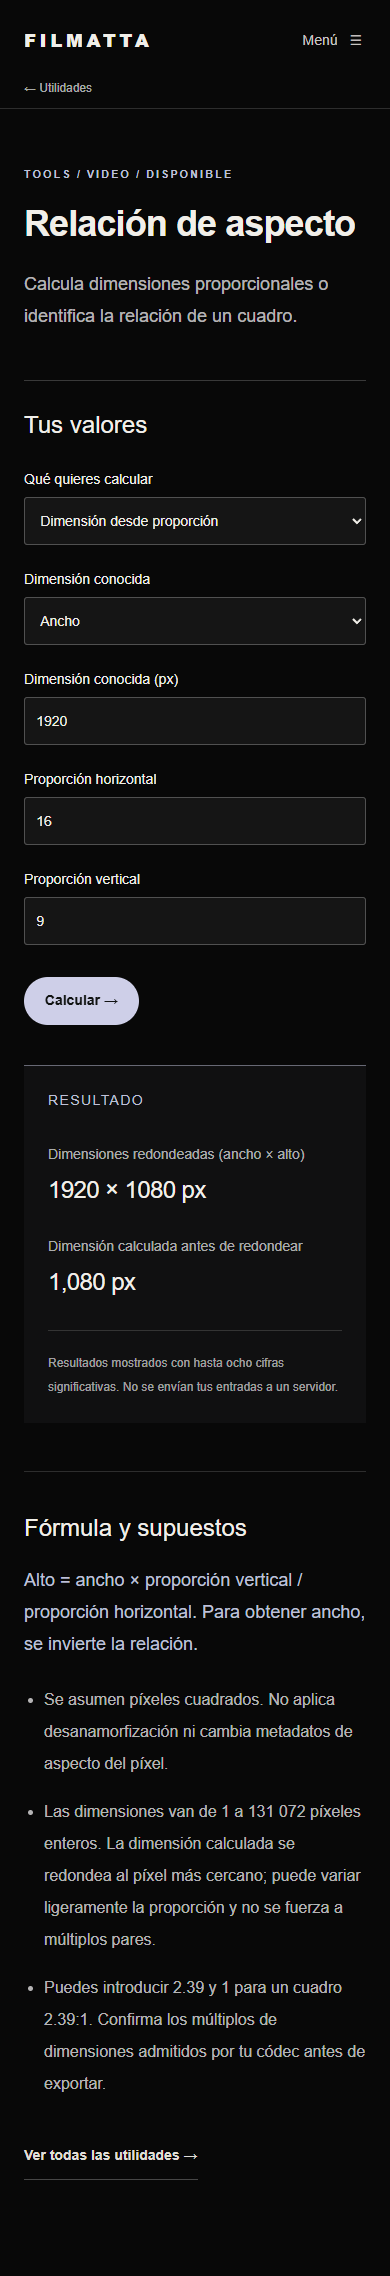
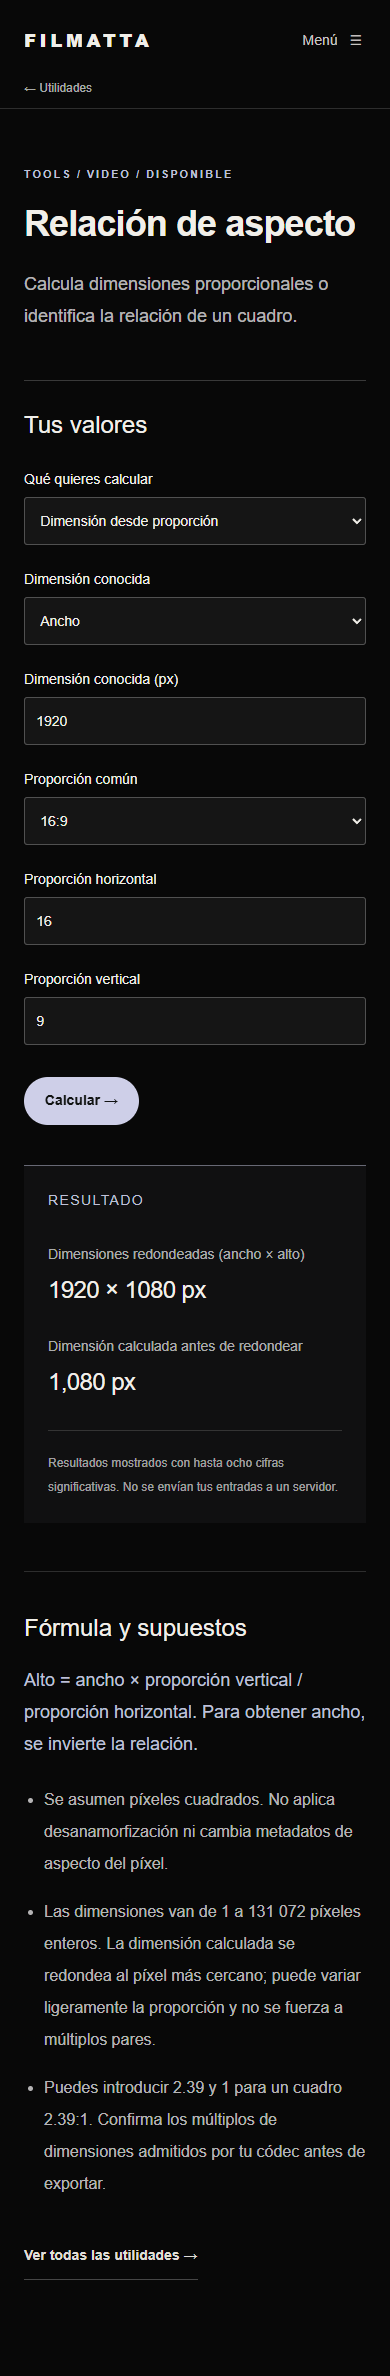
docs(review): close catalog foundations with current Test evidence

diff --git a/docs/architecture/navigation-landings-catalog-foundations.md b/docs/architecture/navigation-landings-catalog-foundations.md
@@ -1,115 +1,90 @@
-# Navigation, landings and catalog foundations
+# Navigation + Catalog Foundations — arquitectura de cierre
 
-Base: c542b0a7c6e8ecd5ca578c1271819ebed46cfd49 (main = origin/main after fetch).
-Branch: feature/navigation-landings-catalog-foundations.
-Worktree: G:\PROYECTOS\filmatta-navigation-landings.
+Estado de cierre: 17 de septiembre de 2026. Rama `feature/navigation-landings-catalog-foundations`, worktree `G:\PROYECTOS\filmatta-navigation-landings`.
 
-## Scope override
-The execution brief explicitly advances public catalogs, derived Talent, service directory, Jobs and Tools foundations beyond the future scope in AGENTS.md. Depth and security take precedence over coverage. Jobs reuses opportunities. Tools uses a typed code registry. Public routes remain public according to existing policies. No Production deployment, remote migrations, fixtures, payments, Billing changes or integration of live-smoke-discount.
+## Base y alcance auditados
 
-## Baseline audit
-- /: versioned editorial Home and FILMATTA wordmark. Uncommitted Home work in the original billing checkout was not imported.
-- /perfiles: presentation; /perfiles/[slug] and /mi-perfil use privacy-preserving RPCs. Public directory RPC absent.
-- /locaciones and detail: published inventory. /mis-locaciones contains owner CMS.
-- /oportunidades and detail: published opportunities linked to published projects; publishing UI absent.
-- /cursos: existing Learn access, progress and playback, preserved.
-- /cuenta: #mis-cursos and #configuracion available.
-- Marketplace, Jobs, Talent and Tools routes absent at baseline.
-- proxy.ts refreshes sessions without privatizing public catalogs.
-- No Production environment or secrets copied into this worktree.
+La base histórica del bloque es `c542b0a7c6e8ecd5ca578c1271819ebed46cfd49`. Al iniciar este cierre, la rama estaba limpia en `ba4d87e9f442e821e1bcfc36f9918a60ae881af3`; main local y la referencia remota consultada ya apuntaban al mismo commit. Este cierre no hizo merge, push ni deploy. Los documentos de QA del 16 de septiembre son evidencia histórica, no un inventario actual de Production.
 
-## A — Navigation
-Shared public/authenticated navigation, server-validated role, unchanged subscription badge. Slash-separated desktop menu from 1440px; compact modal below. Disclosure buttons support click, Tab, Escape and outside click; mobile native dialog provides focus containment and restoration. Account and publishing links reuse authorized routes. Features enable only once their destination exists. UI role checks do not replace server authorization.
+La autorización de producto adelanta los catálogos y las foundations de Services, Jobs y Tools respecto al backlog original de AGENTS.md. A–F ya estaban implementados: se auditaron y conservaron. Este cierre completa controles de unidades/proporciones en Utilities, recorridos conceptuales de las dos herramientas futuras y documentación. No modifica Billing, Stripe, Mux, grants, entitlements, Auth/SMTP ni las cinco landings iniciales.
 
-## Sources consulted
-- [Home roadmap](https://docs.google.com/document/d/1cHL3YTvP5DvgSgEfzOFK-wNRV5gatXwb7nglXnq1180/edit)
-- [Writer vision](https://docs.google.com/document/d/1xqC75YyhjfjZ_dSthU1nytKg-qpIcYaHmM4awOlU8jA/edit)
-- [Production strategy](https://docs.google.com/document/d/16ljbRdGXK4Na7V7OvGPaNGcYwVjx3z8klfqOK5NrqXg/edit)
-- themesh.art timed out; no visual inspection claimed.
+## Real / operativo y rutas
 
-## B — Editorial landings for existing verticals
-Implemented /descubre/perfiles, /descubre/talento, /descubre/locaciones, /descubre/oportunidades and /descubre/learn. Marketplace/Jobs/Tools landings remain with their later product blocks, so no nonfunctional catalog CTA is introduced. Shared structure with distinct portfolio, portrait, panorama, brief and learning compositions. Pale blue Profiles/Talent; muted olive Locations, steel Opportunities and amber Learn. Home composition preserved, manifesto added, Profiles accent corrected.
+| Módulo | Presentación | Producto y reglas |
+| --- | --- | --- |
+| Perfiles | `/descubre/perfiles` | `/perfiles`, `/perfiles/[slug]`, `/mi-perfil`; RPCs de `professional_profiles`, proyección pública sin identidad privada, disciplina/ciudad/disponibilidad, orden y páginas |
+| Talento | `/descubre/talento` | `/talento`, misma tabla, identidad y permisos; Actuación/Modelaje |
+| Locaciones | `/descubre/locaciones` | `/locaciones`, detalle y CMS `/mis-locaciones`; conserva fotos, ownership y estados |
+| Oportunidades | `/descubre/oportunidades` | `/oportunidades`, detalle y `/mis-oportunidades`; crear/editar/publicar/cerrar/archivar; proyecto mínimo interno |
+| Learn | `/descubre/learn` | `/cursos`, detalle, lecciones y cuenta existentes; conserva progreso y acceso |
+| Marketplace | `/descubre/marketplace` | `/marketplace`, `/marketplace/[slug]`, `/mis-servicios`, `/mis-servicios/nuevo`, `/mis-servicios/[id]/editar`, `/mis-servicios/consultas` |
+| Jobs | `/descubre/jobs` | `/jobs`; detalle `/oportunidades/[slug]`; crear `/mis-oportunidades/nueva?type=job`; CMS compartido |
+| Tools | `/tools` | Registry tipado `lib/tools/registry.ts`, sin tabla Supabase; cuatro calculadoras públicas |
 
-Final copy lives in content/landings.ts. Descriptions explicitly acknowledge that private contact and applications are not functional in the baseline. Three local optimized WebP images, 528 KB combined; source/author/license/dimensions/focal point documented in content/image-sources.json. No stock person presented as a customer or registered professional.
+Cada catálogo conserva sus reglas públicas por URL directa. Vacío, fallo de transporte y esquema ausente tienen estados distintos. Filtros y paginación se ejecutan en servidor; los formularios validan del lado servidor y SQL vuelve a comprobar ownership y publicación.
 
-Validation: 8 navigation/content unit tests; 12 Playwright tests covering server sessions (local transport fixtures), admin visibility, anonymous route protection, keyboard interaction and all seven requested widths. Corrected mobile reverse-Tab focus escape. Inspected full-page desktop/mobile captures for all five landings in docs/review. UI fixtures do not establish database authorization correctness.
+## Marketplace y contacto
 
-## C — Catálogos existentes y publicación de oportunidades
+`service_listings` almacena propietario, slug estable, categoría, descripción, ciudad/modalidad, enlaces HTTPS, precio/moneda opcional, estado y timestamps. No duplica nombre, avatar ni disciplinas del perfil profesional. Catálogo por categoría/ciudad/modalidad, orden estable, paginación, detalle público y CMS de propietario con borrador/publicar/despublicar/archivar.
 
-Entrega de este checkpoint: Perfiles publicados, Talento derivado, Locaciones, Oportunidades y Learn. Filtros GET compartibles, consultas limitadas a 24 elementos más una fila de anticipación, orden con desempate estable y paginación anterior/siguiente. No se generan cifras de inventario. Se distinguen ausencia de migración, error de carga y cero resultados. Hay estados de carga y error por ruta; los límites de error usan `retry`, conforme a la documentación de Next.js instalada.
+`catalog_inquiries` es la bandeja protegida compartida con Jobs. Sólo participantes/admin leen sus consultas. El destinatario se deriva en SQL, con FK compuesta al propietario; el emisor necesita perfil profesional publicado. Una consulta por ficha y máximo diez en 24 horas entre ambos módulos. El receptor acepta, declina o archiva; el emisor ve el estado. No se publican teléfono/correo, ni hay chat, email automático o contratación. service_role sólo prepara/limpia fixtures Test y nunca resuelve operaciones de producto.
 
-Perfiles consulta una proyección pública explícita mediante RPC. No se amplían permisos SELECT de la tabla profesional, ni se devuelven user_id, correo, teléfono o nombre privado. Talento filtra Actuación/Modelaje en la misma tabla; crear o editar sigue pasando por /mi-perfil y sus RPCs existentes. Modelaje se añade al selector de disciplinas. No se crea una segunda identidad.
+## Jobs sobre Opportunities
 
-Locaciones conserva su CMS, fotos, ciclo de publicación y ownership. Se añaden búsqueda por título, ciudad y entorno. Oportunidades filtra categoría, ciudad, título y modalidad; el proyecto publicado se filtra antes de paginar mediante la relación existente. Learn filtra título, categoría y nivel, con orden estable; no cambia acceso, progreso, grants ni playback.
+Sólo se añaden `opportunity_type` y `deliverables`. Se reutilizan `compensation_type`, `compensation_min/max/currency`, `discipline`, `work_mode`, `city`, `application_deadline`, `starts_on/ends_on`, propietario, proyecto y estados existentes. No existe tabla ni motor Jobs.
 
-`/mis-oportunidades` permite listar y editar publicaciones propias. `/mis-oportunidades/nueva` crea atómicamente un proyecto mínimo y una oportunidad. Por defecto queda en borrador; publicar requiere brief y ciudad cuando no es remoto. La UI explica que también se publica el título del proyecto. Editar conserva el slug compartido, y permite cerrar/archivar. El RPC deriva auth.uid(), comprueba propiedad y mantiene RLS mediante SECURITY INVOKER. La transacción evita proyectos huérfanos. La Server Action valida campos, enum, importes, moneda y fechas. Un error conserva los valores del formulario.
+Publicar exige trabajo pagado, importe positivo, moneda, disciplina, brief, entregables y fecha límite. `/jobs` consulta el subconjunto `opportunity_type='job'`. Filtros: disciplina, ciudad/modalidad, moneda e importe mínimo ofrecido, fecha límite. No compara monedas distintas. Contacto y moderación siguen los permisos del sistema compartido.
 
-Los importes de Oportunidades muestran código de moneda y hasta dos decimales. Se corrigió contraste de texto secundario en los tres listados existentes, el fondo en pantallas altas y la legibilidad de controles de fecha. No cambian tokens de planes.
+## Tools y Utilities disponibles
 
-### Matriz de rutas y estado
+Registro versionado con slug, nombre, categoría, descripción, estado, acceso y ruta. Estados `available`, `beta`, `in-development`; hoy cuatro disponibles y dos en desarrollo.
 
-| Vertical | Destino anónimo | Destino autenticado / catálogo público | Crear / editar | Estado |
-| --- | --- | --- | --- | --- |
-| Perfiles | /descubre/perfiles | /perfiles | /mi-perfil | Requiere RPC nuevo para listado |
-| Talento | /descubre/talento | /talento | /mi-perfil | Vista derivada; requiere el mismo RPC |
-| Locaciones | /descubre/locaciones | /locaciones | /mis-locaciones | Catálogo y CMS existentes integrados |
-| Oportunidades | /descubre/oportunidades | /oportunidades | /mis-oportunidades | Listado existente; escritura requiere RPC nuevo |
-| Learn | /descubre/learn | /cursos | CMS existente | Filtros/listado integrados |
+- `/tools/utilidades/obturacion`: ángulo ↔ exposición por fps de grabación; exposición máxima de un fotograma.
+- `/tools/utilidades/almacenamiento`: bitrate en kbps/Mbps/Gbps, minutos y margen; salida adaptativa MB/GB/TB y equivalencia GiB. Base decimal explícita, bits distintos de bytes.
+- `/tools/utilidades/relacion-aspecto`: ancho desde alto o alto desde ancho, proporción desde dimensiones; presets 16:9, 9:16, 4:3, 1:1 y 2.39:1, además de valores personalizados.
+- `/tools/utilidades/focal-equivalente`: crop conocido o diagonal del área activa frente a full frame 36×24 mm. Equivalencia de encuadre; no cambia focal física ni perspectiva desde la misma posición, ni calcula DoF.
 
-Se conservan /perfiles/[slug], /locaciones/[slug], /oportunidades/[slug] y /cursos/[slug]. Una URL pública directa no redirige a login por ser anónima. Los filtros Casting/Crew/Colaboraciones enlazan al catálogo público; el acceso general anónimo abre la landing. La sesión sólo determina destinos y CTAs, nunca sustituye RLS.
+Funciones puras con rangos, unidades, supuestos y rechazo de NaN/Infinity; resultados obsoletos se eliminan al cambiar entradas. No se envían entradas al servidor.
 
-Mi cuenta incluye resumen, perfil, aprendizaje, locaciones, publicaciones, suscripción, ajustes y cierre de sesión. Admin sólo aparece para el rol validado exacto. Publicar incluye perfil, locación y oportunidad. A 1440 px se mantiene la navegación con separadores; Publicar aparece a partir de 1600 px y está disponible en el drawer compacto. Jobs/Marketplace/Tools no se añaden aún al menú porque sus destinos no están entregados.
+## En desarrollo
 
-### Migraciones locales preparadas
+`/tools/writer`: landing «Escribe tu historia. Mira más allá de las páginas.»; muestra Guion → Escenas → Personajes → Locaciones → Necesidades de producción, explícitamente conceptual. Orden, claridad, autoría, continuidad y asistencia creativa; sin editor simulado.
 
-1. `supabase/migrations/20260916010000_public_profile_catalog.sql`: proyección pública, filtros y dos índices parciales.
-2. `supabase/migrations/20260916020000_opportunity_owner_publishing.sql`: creación/edición atómica por propietario con RLS existente.
+`/tools/production-assistant`: landing «De la idea a una producción organizada.»; Idea → Guion → Desglose → Necesidades → Talento / Locaciones / Servicios → Producción. Sin scheduling, presupuestos inteligentes, call sheets ni automatización ofrecidos como disponibles.
 
-Ambas se ejecutaron en PostgreSQL desechable mediante PGlite, junto con las migraciones reales previas de Perfiles y Locations/Opportunities. El harness crea únicamente los prerrequisitos locales de auth y roles. No se aplicaron a ninguna base remota. No hay tabla Jobs ni tabla Tools. No se modifica configuración de Supabase Production.
+## Navegación final
 
-### Límites funcionales explícitos
+Perfiles ▾ / Oportunidades ▾ / Locaciones / Marketplace / Learn / Tools ▾ / Planes. Separadores decorativos aria-hidden. Perfiles agrupa Profesionales/Talento; Oportunidades agrupa Todas/Jobs/Casting/Crew/Colaboraciones; Tools incluye hub, Writer, Production Assistant y utilidades. Anónimo llega a landings; autenticado a catálogos. Los filtros específicos de oportunidades son públicos.
 
-El baseline no tiene contacto privado ni postulaciones operativas para estos catálogos. Este checkpoint no inventa un botón de contacto ni revela datos personales para suplirlo. Las landings y el formulario lo indican. Oportunidades permite publicar y consultar convocatorias; no constituye todavía un flujo completo de contratación o postulación. El contacto protegido será una dependencia del siguiente bloque de Servicios y de Jobs, con ownership de emisor/receptor y pruebas de acceso cruzado.
+Mi cuenta: resumen, perfil, aprendizaje, locaciones, publicaciones, servicios, consultas, suscripción y ajustes; cerrar sesión y Admin según rol validado. Publicar enlaza a formularios existentes de perfil/locación/oportunidad/job/servicio. Desktop desde 1440 px; drawer jerárquico por debajo. Click/teclado/Escape/foco y cierre al navegar verificados. Ningún middleware nuevo privatiza catálogos.
 
-### Validación acumulada
+## Migraciones y estado remoto
 
-- Billing: 54/54 pruebas existentes.
-- Navegación y contenido: 8/8.
-- Catálogos, validación y Server Actions: 11/11.
-- PostgreSQL/RLS: 6/6 con migraciones reales. Anónimo, propietario, usuario ajeno y admin; exclusión de borradores, proyección pública, filtros/paginación, publicación y rollback atómico.
-- Navegador: 18/18 en Chrome, usando exclusivamente transporte Supabase simulado local. Destinos por sesión, teclado/Escape/foco, siete anchos, acceso directo, cero resultados, esquema ausente, fallo, publicados, borradores, creación y conservación de valores tras error.
-- TypeScript: correcto. Lint focal del código nuevo: correcto. Lint completo: cero errores y ocho advertencias existentes `no-img-element`.
-- Build: correcto con variables locales ficticias y Billing deshabilitado. `git diff --check`: correcto.
+Supabase de validación exclusivo: `ezlycwkuzkwcnhrhiruv`. Las cuatro migraciones ya estaban registradas; se verificaron y NO se reaplicaron durante este cierre:
 
-Las pruebas de navegador no validan por sí solas RLS: esa comprobación independiente se realiza con PostgreSQL. Aún falta la integración en un Supabase Preview real (PostgREST, Auth y Storage). No se afirma haberla probado ni se usa Production como sustituto.
+1. `20260916010000_public_profile_catalog.sql`: RPC público e índices; requiere Professional Profiles.
+2. `20260916020000_opportunity_owner_publishing.sql`: RPC propietario; requiere foundations Projects/Opportunities.
+3. `20260916030000_services_directory.sql`: Services e inbox; requiere Auth, Profiles, `private.is_admin()` y triggers foundation.
+4. `20260916040000_jobs_specialization.sql`: requiere Opportunities y migraciones 2 y 3.
 
-### Copys e imágenes
+Auth/PostgREST/RLS/RPCs reales aprobados con anon, owner, no-owner y admin; fixtures eliminados. Evidencia actual: [closure-test-evidence.json](../review/closure-test-evidence.json). Evidencia de aplicación histórica y grafo detallado: [checkpoints D–F](../review/checkpoints-d-f.md) y [Preview previo](../review/remote-preview.md).
 
-El texto final completo está en `content/landings.ts`; el bloque explicativo contextual adicional está en `app/descubre/[vertical]/page.tsx`. Los cinco H1 conservan el brief:
+**Production `ihryubbegljbwmuyazbn` no fue consultada ni modificada en este cierre. No se puede certificar que las cuatro migraciones sigan pendientes allí basándose en informes históricos, especialmente porque main ya contiene el bloque.** No se crearon migraciones nuevas en este cierre. En Test no quedan pendientes. Antes de un rollout autorizado, verificar historial Production y aplicar sólo las ausentes, en el orden anterior; nunca ejecutar reset ni duplicar registros de historial.
 
-- Perfiles: «Tu trabajo merece una mejor presentación.»
-- Talento: «Presencia frente a cámara. Un perfil que la muestre.»
-- Locaciones: «El siguiente escenario de tu producción.»
-- Oportunidades: «Tu próximo proyecto empieza con una oportunidad.»
-- Learn: «Aprende el oficio. Lleva tus ideas al set.»
+## Validación y revisión visual
 
-Home conserva «El ecosistema de la industria audiovisual.» y añade «Orden para crear. Claridad para decidir. Herramientas para producir.» como banda editorial. Business permanece informativo/próximamente.
+[Cierre reproducible, resultados y capturas](../review/closure.md). Pruebas de fórmulas/catálogos/permisos, Billing, lint, TypeScript, build optimizado local y navegador. El build usa sólo la configuración pública Test, sin Billing habilitado. Chrome comprueba 360/390/768/1024/1280/1440/1920 px. Las capturas de fichas corresponden a fixtures temporales identificados, no inventario real.
 
-Fuentes, autores, licencia consultada, fecha, dimensiones, focal point y uso por landing: `content/image-sources.json`. Las fotos son ilustración editorial Pexels, no inventario, miembros ni testimonios. Las capturas de catálogos contienen fixtures identificados como prueba local; no existen en la aplicación ni en bases remotas.
+Copy de verticales: `content/landings.ts`; herramientas futuras: `components/tools/ProductVision.tsx`. Fuentes de fotos, autor, licencia, dimensiones y crops: `content/image-sources.json`. No se añadieron imágenes en este cierre ni se inventaron usuarios, vendors o testimonios.
 
-## Siguiente bloque exacto: D — Marketplace / Services
+## Pasos posteriores de despliegue (no ejecutados)
 
-Esta entrega se cierra en A, B para las cinco verticales existentes, y C. Se priorizó completar y verificar estos recorridos. El alcance global del brief continúa pendiente; no se marca Marketplace/Jobs/Tools como disponible.
+1. Revisar los commits de cierre frente a main actual. No reincorporar D–F como si faltaran: ya estaban en `ba4d87e`.
+2. Preparar un nuevo Preview del commit aprobado, con URL/clave pública exclusivamente Test y Billing deshabilitado; conservar las reglas de protección Vercel. El Preview histórico no contiene los ajustes de este cierre.
+3. Repetir `playwright.preview.config.mjs` sobre la URL exacta autorizada, usando acceso temporal sin registrar tokens; limpiar fixtures y revocar acceso QA al terminar.
+4. Sólo con autorización posterior, auditar historial y dependencias Production. Aplicar únicamente SQL faltante; los ajustes de este cierre no requieren SQL. Desplegar el commit aprobado y hacer smoke de rutas/roles, sin pagos como parte de este bloque.
+5. Si el smoke falla, volver al deployment anterior; las migraciones son aditivas y no deben eliminarse para revertir el frontend.
 
-1. D: migración aditiva Services con propietario, borrador por defecto, publicación/archivo, RLS, campos públicos explícitos y contacto protegido mínimo. Después listado, filtros/paginación, detalle, crear/editar/archivar, landing /descubre/marketplace y navegación. Sin pagos ni transacciones.
-2. E: Jobs como subconjunto de Opportunities. Reutilizar compensation_min/max/currency, work_mode, discipline, application_deadline, starts_on/ends_on; añadir sólo semántica/deliverables que falten. Incorporar mecanismo real de contacto/postulación, /jobs y /descubre/jobs. No segunda tabla/motor.
-3. F: registro tipado versionado en código para /tools. Writer y Production Assistant sólo landings con estado En desarrollo. Utilities: shutter angle/speed, bitrate/almacenamiento, aspect ratio y crop/focal equivalente, con unidades, supuestos y tests de límites. Ninguna herramienta nueva está disponible en este checkpoint.
+## Deuda y futuro
 
-## Pasos para un Preview revisable
-
-1. Revisar estos commits en la rama aislada y las dos migraciones. Instalar dependencias con `npm ci`.
-2. Provisionar o seleccionar un Supabase exclusivamente de desarrollo/Preview con el esquema base ya validado del proyecto. Aplicar allí, tras revisión, sólo las migraciones pendientes en orden. No ejecutar reset ni migraciones contra Production.
-3. Configurar URL y clave pública del entorno aislado en variables de Preview. No copiar secretos Production. Mantener Billing deshabilitado para esta revisión; no modificar su configuración ni Test/Live existentes.
-4. Crear usuarios de prueba separados y contenido propio de desarrollo. Comprobar Auth/PostgREST/Storage reales: edición del propietario, denegación cruzada, publicación/archivo, RPC de Perfiles y visibilidad anónima. No cargar fixtures en Production.
-5. Ejecutar scripts test:billing, test:navigation, test:catalogs, test:database, test:e2e, TypeScript, lint y build. El script e2e levanta sus propios servidores locales con valores ficticios, sin usar .env Production.
-6. Preparar un deploy exclusivamente Preview de esta rama cuando corresponda. En esta ejecución no se hizo push, deploy ni cambio remoto. Las capturas locales permiten revisar ya la composición y los flujos, sin presentar esa prueba como integración remota.
+Reviews, matching, pagos Marketplace, mapa/geografía, Projects/Production completo, Writer real, Production Assistant real y Tools avanzadas siguen en backlog. Sin DoF, hiperfocal ni electricidad/seguridad. Services/Jobs tienen consulta inicial, no mensajería completa ni notificaciones. Falta UI administrativa específica de moderación; RLS admin sí existe. Jobs mantiene una disciplina textual y no archiva automáticamente al vencer. Ocho advertencias históricas de `<img>` siguen sin errores de lint. Matriz actual Chrome/Windows; Safari/Firefox y auditoría externa de accesibilidad pendientes. Recuperación portable y SMTP pertenecen a la rama separada `codex/recovery-callback` y no se integraron aquí.

diff --git a/docs/review/closure.md b/docs/review/closure.md
@@ -1,0 +1,80 @@
+# Cierre Navigation + Catalog Foundations
+
+Fecha: 2026-09-17. Rama `feature/navigation-landings-catalog-foundations`; worktree `G:\PROYECTOS\filmatta-navigation-landings`.
+
+## Precheck y commits
+
+Working tree inicialmente limpio, HEAD `ba4d87e9f442e821e1bcfc36f9918a60ae881af3`, igual a main local y al main remoto consultado. Base histórica `c542b0a7c6e8ecd5ca578c1271819ebed46cfd49`. No se cambió de rama ni se reutilizó el checkout Billing; sus cambios locales ajenos se conservaron.
+
+| Commit existente | Bloque |
+| --- | --- |
+| bcb7ab3 | Navegación A |
+| f47aeb0 | Landings B |
+| d5f8e07 | Catálogos C |
+| 8193537 | Supabase Test real: migraciones previas |
+| 349243e | Marketplace D |
+| b8e6660 | Jobs E |
+| 3855445 | Tools F |
+| 6fb7f17 | Revisión build/Test/capturas |
+| ba4d87e | QA del Preview remoto histórico |
+| 5cd8a1d | Este cierre: unidades, presets, flujos conceptuales y tests adicionales |
+
+El commit documental posterior incluye este informe, arquitectura consolidada, evidencia Test sin secretos y capturas renovadas. No se hicieron push, merge o deploy. Diff de producto contra main: sólo Tools y tests; SQL, Billing, Stripe, Mux, grants y Auth sin diferencias. El bloque histórico A–F ya está en main.
+
+## Verificación actual
+
+| Comprobación | Resultado |
+| --- | --- |
+| Billing | 54/54 |
+| Navegación/contenido | 8/8 |
+| Catálogos/acciones/validación | 14/14 |
+| SQL limpio PGlite/RLS | 9/9 |
+| Tools | 8/8 tras añadir unidades y umbrales MB/GB/TB |
+| Auth/PostgREST Test real | 3/3 suites: Profiles/Opportunities, Services y Jobs |
+| Profiles Test ampliado | Repetido OK con paginación real y distinción de slugs |
+| Navegador con transporte local | 21/21: navegación, roles, drawer, errores, formularios y calculadoras |
+| Build final + Supabase Test real | 2/2: 70 combinaciones ruta/ancho y ciclo owner/contacto/acceso ajeno/admin |
+| TypeScript | `tsc --noEmit` y comprobación del build, correctos |
+| ESLint completo | 0 errores, 8 advertencias históricas `<img>` |
+| Build optimizado local | Next.js 16.3.4 correcto; configuración pública Test y Billing desactivado |
+| git diff --check | Correcto |
+
+Se repitieron las pruebas funcionales con Auth y PostgREST reales, sin mocks para demostrar RLS. Los usuarios sintéticos se crean y eliminan con el helper administrativo; las operaciones de producto usan sesiones normales. La prueba visual local de transporte es una regresión complementaria y no se presenta como prueba de permisos de base de datos.
+
+Historial de las cuatro migraciones confirmado en Test; todas ya aplicadas. No se volvió a ejecutar SQL de migración. Comprobación final: cuatro migraciones, RLS activo y cero usuarios temporales restantes, en [closure-test-evidence.json](closure-test-evidence.json).
+
+Production no se consultó ni modificó. No podemos declarar sus migraciones pendientes o ausentes sin una auditoría autorizada de su historial. Este cierre no añade migraciones ni necesita rollout SQL.
+
+## Evidencia visual actual
+
+Se regeneraron las 27 capturas D–F del build final conectado a Test, indexadas en [screenshots-d-f.md](screenshots-d-f.md). Se inspeccionaron como imágenes Marketplace, Jobs, Writer y Production Assistant en desktop/móvil; Tools desktop y las cuatro calculadoras móviles. Sin overflow en siete anchos; no se observaron solapes ni controles cortados en las capturas revisadas. Las cinco landings iniciales se conservaron y pasaron la regresión de navegación/tamaños.
+
+Ejemplos:
+
+- [Marketplace desktop](df-descubre-marketplace-1440.png) / [móvil](df-descubre-marketplace-390.png).
+- [Jobs desktop](df-descubre-jobs-1440.png) / [móvil](df-descubre-jobs-390.png).
+- [Writer desktop](df-tools-writer-1440.png) / [móvil](df-tools-writer-390.png).
+- [Production Assistant desktop](df-tools-production-assistant-1440.png) / [móvil](df-tools-production-assistant-390.png).
+- [Almacenamiento móvil](df-tools-utilidades-almacenamiento-390.png) / [proporciones móvil](df-tools-utilidades-relacion-aspecto-390.png).
+
+El Preview remoto descrito en `remote-preview.md` es evidencia histórica; no se ha actualizado con `5cd8a1d`. Las capturas de cierre actuales proceden del servidor local optimizado y del Supabase Test real.
+
+## Reproducción sin secretos
+
+Desde el worktree, ejecutar:
+
+```powershell
+node --test tests/billing/*.test.mjs tests/navigation/*.test.mjs tests/catalogs/*.test.mjs tests/database/*.test.mjs tests/tools/*.test.mjs
+npx tsc --noEmit
+npx eslint .
+npx playwright test
+$env:FILMATTA_RUN_REMOTE_TESTS='ezlycwkuzkwcnhrhiruv'
+# FILMATTA_TEST_ENV_FILE debe apuntar a una configuración Test privada fuera de Git.
+node --test --test-concurrency=1 tests/integration/*.test.mjs
+```
+
+Para build y smoke: cargar únicamente URL/clave pública verificadas del Test; `BILLING_ENABLED=false`; ejecutar `npm run build`, después definir `FILMATTA_TEST_BUILD=true` y ejecutar `npx playwright test --config playwright.remote.config.mjs`. El guard valida el ref Test y rechaza una clave JWT de otro proyecto. No copiar `.env.local` a un deployment ni registrar credenciales.
+
+## Alcance final y deudas
+
+Operativos: Navigation, Profiles/Talent, Locations, Opportunities, Marketplace como directorio/contacto, Jobs sobre Opportunities, Tools y cuatro Utilities. Writer y Production Assistant: landings en desarrollo con recorridos conceptuales. Backlog: reviews, matching, pagos/contratos, notificaciones/chat, mapa, Projects completo y herramientas avanzadas. Detalles, límites de contacto y pasos de despliegue posterior en [arquitectura consolidada](../architecture/navigation-landings-catalog-foundations.md).

diff --git a/docs/review/screenshots-d-f.md b/docs/review/screenshots-d-f.md
@@ -1,6 +1,6 @@
 # Capturas D–F
 
-Build optimizado local, Supabase Test. Desktop 1440 px; móvil 390 px. Los datos marcados como prueba aislada son fixtures temporales ya eliminados.
+Capturas renovadas en el cierre del 17 de septiembre de 2026, commit de producto 5cd8a1d. Build optimizado local, Supabase Test. Desktop 1440 px; móvil 390 px. Los datos marcados como prueba aislada son fixtures temporales ya eliminados.
 
 - [df-descubre-jobs-1440.png](df-descubre-jobs-1440.png)
 - [df-descubre-jobs-390.png](df-descubre-jobs-390.png)

diff --git a/docs/review/checkpoints-d-f.md b/docs/review/checkpoints-d-f.md
@@ -1,3 +1,5 @@
+> Documento histórico del 16 de septiembre. Estado actual y limitaciones de Production: [cierre](closure.md).
+
 > Estado actualizado: [Preview remoto y revisión final](remote-preview.md). Este documento conserva la evidencia histórica de su checkpoint.
 
 # Checkpoints D–F — continuación

diff --git a/docs/review/remote-preview.md b/docs/review/remote-preview.md
@@ -1,3 +1,5 @@
+> Documento histórico del 16 de septiembre. Estado actual y limitaciones de Production: [cierre](closure.md).
+
 # Preview remoto — FILMATTA ecosystem
 
 Fecha: 16 de septiembre de 2026. Rama: `feature/navigation-landings-catalog-foundations`.
